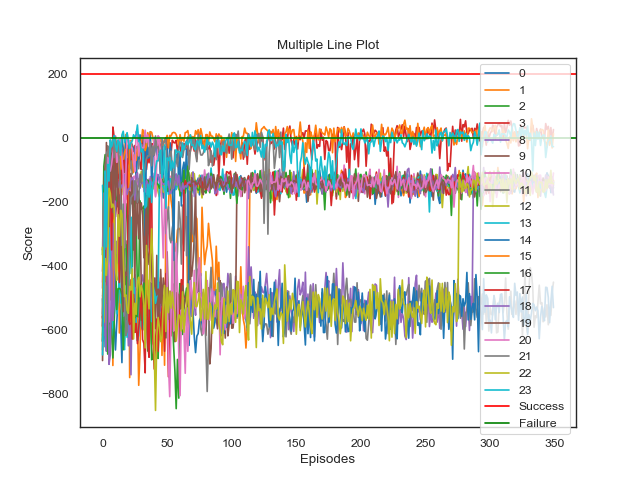
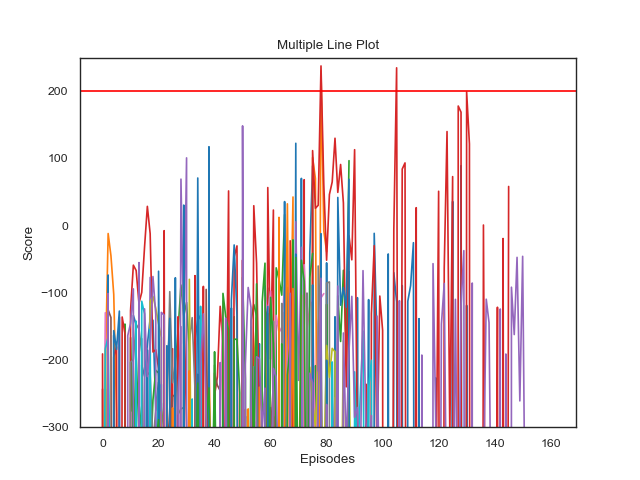
Testing new approach

diff --git a/src/TrainingHandler.py b/src/TrainingHandler.py
@@ -23,7 +23,7 @@ def run_episode(wind, gravity, start_position, agent, config):
 
 class TrainingHandler(object):
 
-    def __init__(self, thread, trial, hparams, dev_note='', pre_trained_model=None, testing=False):
+    def __init__(self, hparams, dev_note='', pre_trained_model=None, testing=False):
         self.testing = testing
         self.config = get_config(testing)
         self.hparams = hparams
@@ -33,8 +33,8 @@ class TrainingHandler(object):
         self.agent = None
         self.created_at = None
         self.environment = None
-        self.thread = thread
-        self.trial = trial
+        # self.thread = thread
+        # self.trial = trial
         self.best_score = self.config['best_score']
 
         # if self.config['general']['save_results']:
@@ -49,8 +49,9 @@ class TrainingHandler(object):
         self.agent = Agent(config=self.config, hparams=hparams)
 
         for episode in range(self.config['number_of_episodes']):
-            print(
-                f'\nTHREAD {self.thread + 1} // TRIAL {self.trial + 1} ----- EPISODE {episode + 1}/{self.config["number_of_episodes"]}')
+            print(f'EPISODE {episode}')
+            # print(
+            #     f'\nTHREAD {self.thread + 1} // TRIAL {self.trial + 1} ----- EPISODE {episode + 1}/{self.config["number_of_episodes"]}')
             if self.config['general']['model_type'] == MODEL_TYPE.SINGLE:
                 score = self.run_single_episode(episode)
             elif self.config['general']['model_type'] == MODEL_TYPE.MULTI:
@@ -254,17 +255,18 @@ class TrainingHandler(object):
         return self.evaluation(episode)
 
     def save_results_to_file(self, episode, simple_eval_scores, robust_eval_scores):
-        with open(f'../results/{self.created_at}_THREAD{self.thread + 1}_TRIAL{self.trial + 1}.json', 'r') as f:
+        with open(f'../results/{self.created_at}-{self.dev_note}/results.json', 'r') as f:
             results = json.load(f)
             results['results'].append(
                 {
                     'episode': episode,
                     'simple_eval_scores': simple_eval_scores,
+                    'average_score': np.mean(simple_eval_scores),
                     'robust_eval_scores': robust_eval_scores,
                     'uncertainty': self.config['uncertainty'],
                 })
 
-        with open(f'../results/{self.created_at}_THREAD{self.thread + 1}_TRIAL{self.trial + 1}.json', 'w') as f:
+        with open(f'../results/{self.created_at}-{self.dev_note}/results.json', 'w') as f:
             json.dump(results, f)
 
     def create_result_file(self):
@@ -273,5 +275,13 @@ class TrainingHandler(object):
         if not is_dir:
             os.mkdir('../results')
 
-        with open(f'../results/{self.created_at}_THREAD{self.thread + 1}_TRIAL{self.trial + 1}.json', 'w') as f:
+        os.mkdir(f'../results/{self.created_at}-{self.dev_note}')
+
+        with open(f'../results/{self.created_at}-{self.dev_note}/results.json', 'w') as f:
             json.dump({'note': self.dev_note, 'results': [], 'config': self.config, 'hparams': self.hparams}, f)
+
+        with open(f'../results/{self.created_at}-{self.dev_note}/config.json', 'w') as f:
+            json.dump(self.config, f)
+
+        with open(f'../results/{self.created_at}-{self.dev_note}/hparams.json', 'w') as f:
+            json.dump(self.hparams, f)

diff --git a/src/main.py b/src/main.py
@@ -27,15 +27,30 @@ def run_thread(thread, trials):
 
 
 if __name__ == '__main__':
-    n_threads = 3
-    n_trials = 2
-    threads = []
+    # n_threads = 3
+    # n_trials = 2
+    # threads = []
 
-    for thread in range(n_threads):
-        t = threading.Thread(target=run_thread, args=(thread, n_trials))
-        threads.append(t)
-        t.start()
+    dev_note = f'Single trial'
 
-    # Wait for all threads to complete
-    for t in threads:
-        t.join()
+    hparams = {
+        'learning_rate': random.choice([0.001]),
+        'batch_size': random.choice([64]),
+        'hidden_size': random.choice([128]),
+        'layers': random.choice([2]),
+        'activation': random.choice(['relu']),
+        'timesteps': random.choice([5, 6])
+    }
+
+    h = TrainingHandler(dev_note=dev_note, hparams=hparams)
+
+    h.run(hparams)
+
+    # for thread in range(n_threads):
+    #     t = threading.Thread(target=run_thread, args=(thread, n_trials))
+    #     threads.append(t)
+    #     t.start()
+    #
+    # # Wait for all threads to complete
+    # for t in threads:
+    #     t.join()

diff --git a/evaluation/plot.py b/evaluation/plot.py
@@ -11,13 +11,16 @@ def plot_results(file_names):
     sns.set_style('white')
     sns.set_context("paper", font_scale=1)
 
+    file_names = file_names[30:]
+
     for i, file_name in enumerate(file_names):
         # if 'THREAD2' not in file_name:
         #     continue
+        print(file_name)
         with open(f'../results/{file_name}', 'r') as f:
             r = json.load(f)
-
         results = [np.average(x['simple_eval_scores']) for x in r['results']]
+        print(max([np.max(x['episode']) for x in r['results']]))
         if not len(results):
             continue
         print(i, r['hparams'], max(results))
@@ -25,8 +28,10 @@ def plot_results(file_names):
 
     ax = plt.gca()
     ax.axhline(200, color='red', label='Success')
-    ax.axhline(0, color='green', label='Failure')
-    plt.legend(loc='upper right')
+    # ax.axhline(0, color='green', label='Failure')
+    ax.set(ylim=(-300, 250))
+
+    # plt.legend(loc='upper right')
     ax.set(xlabel='Episodes', ylabel='Score')
     plt.title("Multiple Line Plot")
     plt.show()

diff --git a/src/custom_lunar_lander_environment.py b/src/custom_lunar_lander_environment.py
@@ -513,6 +513,9 @@ class LunarLander(gym.Env, EzPickle):
         ]
         assert len(state) == 8
 
+        # print('x: ', pos.x)
+        print('x: ', (pos.x - VIEWPORT_W / SCALE / 2) / (VIEWPORT_W / SCALE / 2))
+
         reward = 0
         shaping = (
                 -100 * np.sqrt(state[0] * state[0] + state[1] * state[1])

diff --git a/src/Agent.py b/src/Agent.py
@@ -83,6 +83,7 @@ class Agent:
             action = np.argmax(prediction)
         else:
             action = np.random.choice(self.action_space)
+
         return action
 
     def learn(self):
